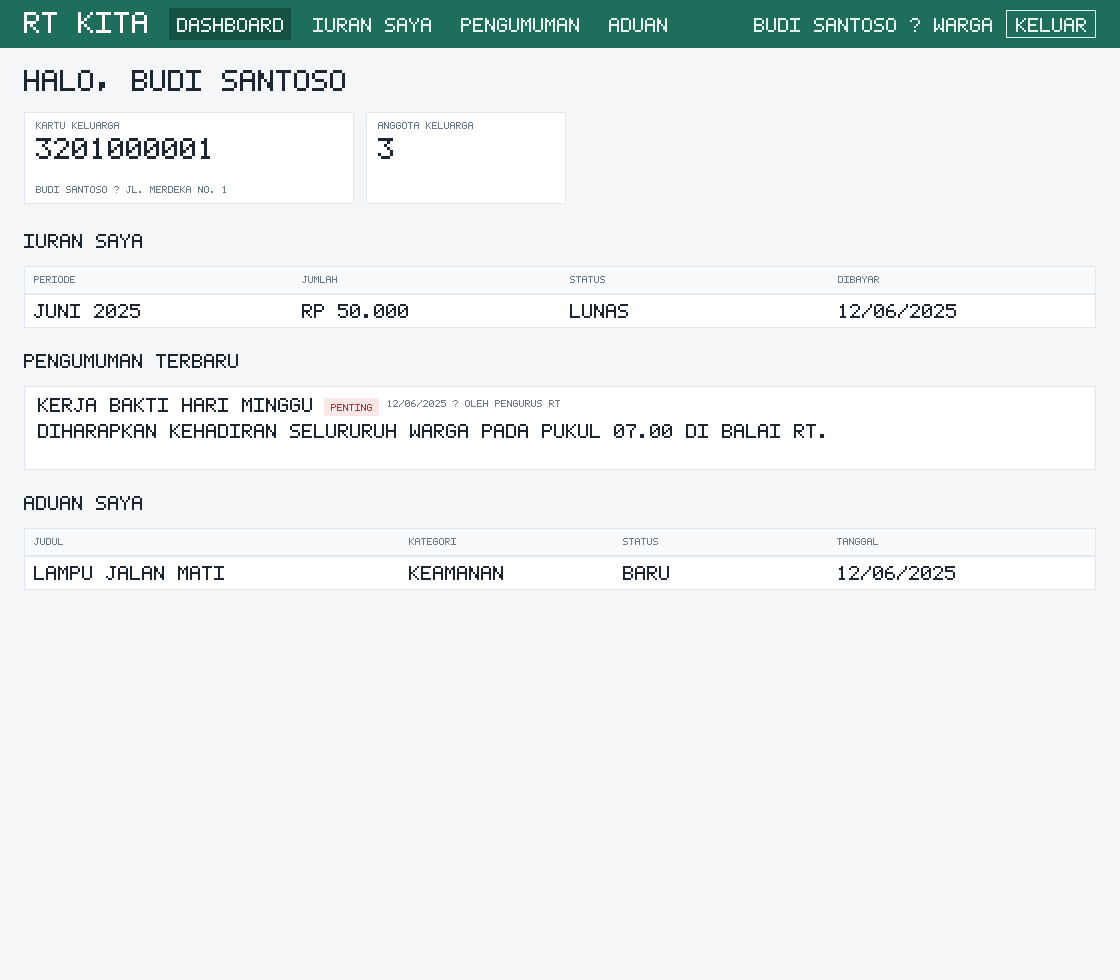
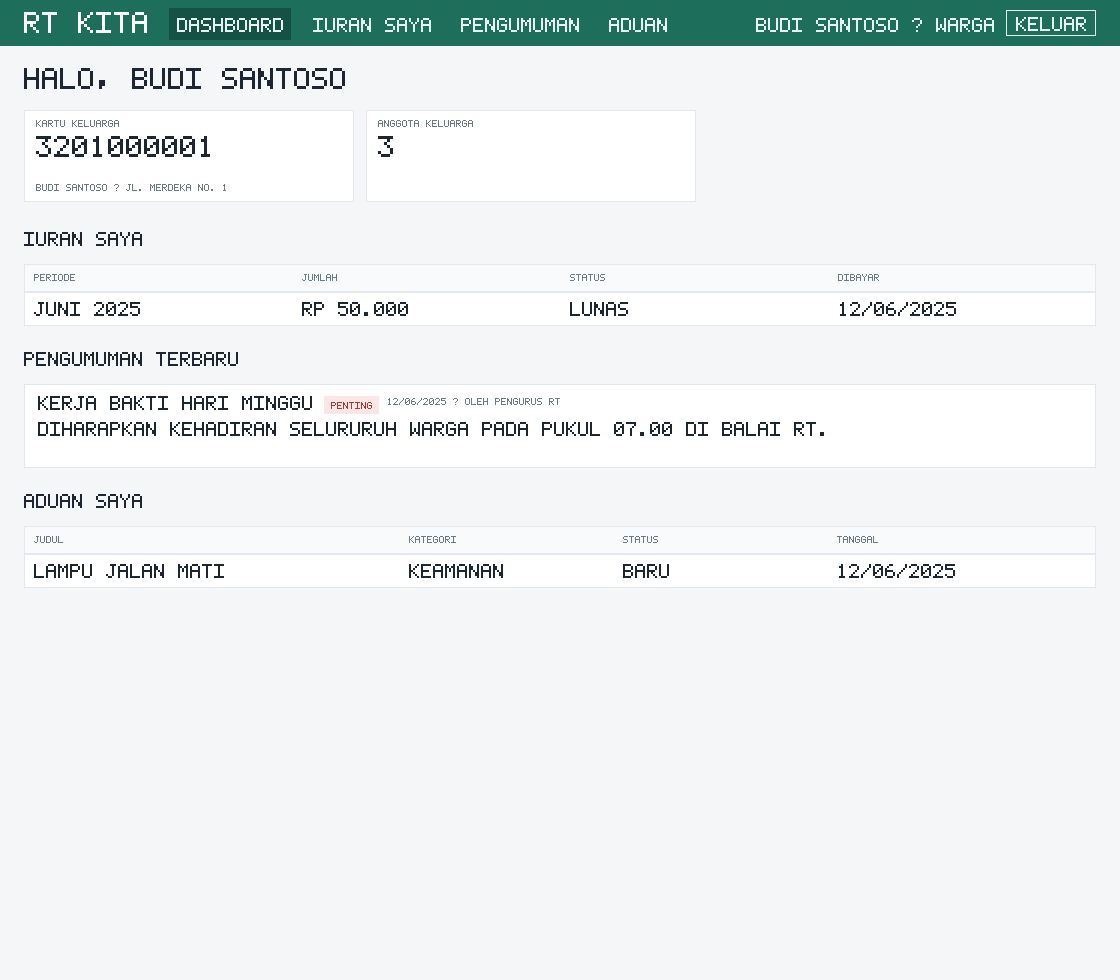
feat: tampilan responsif untuk HP + 4 mockup mobile (390px)
- CSS media query max-width 640px: nav menumpuk, kartu & form satu kolom, tombol full-width, input 16px (anti zoom iOS), tabel scroll horizontal
- meta theme-color untuk browser HP
- mockup baru: 09-mobile-login, 10-mobile-dashboard-pengurus, 11-mobile-kas-rt, 12-mobile-aduan

diff --git a/tools/render-mockups.js b/tools/render-mockups.js
@@ -175,26 +175,55 @@ class Canvas {
   }
 }
 
-const W = 1120;
-const PAD = 24;
-const CW = W - PAD * 2;
+let W = 1120;
+let PAD = 24;
+let CW = W - PAD * 2;
+
+function configure(width) {
+  W = width;
+  PAD = width < 640 ? 12 : 24;
+  CW = W - PAD * 2;
+}
 
 function nav(c, active, links, userLabel) {
-  c.rect(0, 0, W, 48, C.primary);
-  c.text(PAD, 12, 'RT KITA', 3, '#ffffff');
-  let x = PAD + c.textWidth('RT KITA', 3) + 30;
-  for (const [label, key] of links) {
-    const w = c.textWidth(label, 2) + 16;
-    if (key === active) c.rect(x - 8, 8, w, 32, C.primaryDark);
-    c.text(x, 18, label, 2, C.navText);
-    x += w + 14;
-  }
+  const narrow = W < 640;
+  const brandScale = narrow ? 2 : 3;
+  c.rect(0, 0, W, 46, C.primary);
+  c.text(PAD, narrow ? 15 : 12, 'RT KITA', brandScale, '#ffffff');
   const right = 'KELUAR';
   const bw = c.textWidth(right, 2) + 20;
-  c.strokeRect(W - PAD - bw, 10, bw, 28, C.navText);
-  c.text(W - PAD - bw + 10, 18, right, 2, C.navText);
+  c.strokeRect(W - PAD - bw, 10, bw, 26, C.navText);
+  c.text(W - PAD - bw + 10, 17, right, 2, C.navText);
   const ul = userLabel.toUpperCase();
-  c.text(W - PAD - bw - 14 - c.textWidth(ul, 2), 18, ul, 2, C.navText);
+  const us = narrow ? 1 : 2;
+  const ux = W - PAD - bw - 12 - c.textWidth(ul, us);
+  if (ux > PAD + c.textWidth('RT KITA', brandScale) + 16) c.text(ux, 18, ul, us, C.navText);
+  if (!narrow) {
+    let x = PAD + c.textWidth('RT KITA', 3) + 30;
+    for (const [label, key] of links) {
+      const w = c.textWidth(label, 2) + 16;
+      if (key === active) c.rect(x - 8, 8, w, 32, C.primaryDark);
+      c.text(x, 18, label, 2, C.navText);
+      x += w + 14;
+    }
+    return 46;
+  }
+  let x = PAD;
+  let y = 46;
+  const rowH = 34;
+  c.rect(0, 46, W, rowH, C.primaryDark);
+  for (const [label, key] of links) {
+    const w = c.textWidth(label, 2) + 16;
+    if (x + w > W - PAD) {
+      x = PAD;
+      y += rowH;
+      c.rect(0, y, W, rowH, C.primaryDark);
+    }
+    if (key === active) c.rect(x - 8, y + 3, w, 28, C.primary);
+    c.text(x, y + 11, label, 2, C.navText);
+    x += w + 10;
+  }
+  return y + rowH;
 }
 
 function h1(c, y, str) { c.text(PAD, y, str, 3, C.ink); return y + 34; }
@@ -207,6 +236,22 @@ function card(c, x, y, w, h, title, value, sub) {
   c.text(x + 12, y + 10, title, 1, C.muted);
   c.text(x + 12, y + 26, value, 3, C.ink);
   if (sub) c.text(x + 12, y + h - 18, sub, 1, C.muted);
+}
+
+function cardGrid(c, y, cards, cardW, gap) {
+  let x = PAD;
+  let rowH = 0;
+  for (const [t, v, s] of cards) {
+    if (x + cardW > PAD + CW) {
+      x = PAD;
+      y += rowH + gap;
+      rowH = 0;
+    }
+    card(c, x, y, cardW, 92, t, v, s);
+    rowH = 92;
+    x += cardW + gap;
+  }
+  return y + rowH;
 }
 
 function button(c, x, y, w, h, label, color = C.primary, textColor = '#ffffff') {
@@ -264,17 +309,26 @@ function item(c, x, y, w, h, title, meta, badges, bodyLines, thumb, tanggapan) {
   let tx = x + 14;
   tx += c.text(tx, y + 12, title, 2, C.ink) + 10;
   for (const b of badges) { tx += badge(c, tx, y + 12, b[0], b[1], b[2]) + 8; }
-  c.text(tx, y + 14, meta, 1, C.muted);
-  let ly = y + 38;
+  let ly;
+  if (W < 640) {
+    c.text(x + 14, y + 36, meta, 1, C.muted);
+    ly = y + 56;
+  } else {
+    c.text(tx, y + 14, meta, 1, C.muted);
+    ly = y + 38;
+  }
   for (const line of bodyLines) { c.text(x + 14, ly, line, 2, C.ink); ly += 20; }
   if (tanggapan) {
     c.rect(x + 14, ly + 2, Math.min(c.textWidth(tanggapan, 2) + 20, w - 28), 26, C.tanggapanBg);
     c.text(x + 24, ly + 8, tanggapan, 2, C.ink);
+    ly += 30;
   }
   if (thumb) {
-    c.rect(x + w - 14 - 120, y + 12, 120, 84, '#dfe5ea');
-    c.strokeRect(x + w - 14 - 120, y + 12, 120, 84, C.line);
-    c.textCentered(x + w - 14 - 60, y + 48, 'FOTO', 2, C.muted);
+    const txp = W < 640 ? x + 14 : x + w - 14 - 120;
+    const typ = W < 640 ? ly + 6 : y + 12;
+    c.rect(txp, typ, 120, 84, '#dfe5ea');
+    c.strokeRect(txp, typ, 120, 84, C.line);
+    c.textCentered(txp + 60, typ + 36, 'FOTO', 2, C.muted);
   }
 }
 
@@ -299,8 +353,8 @@ function screenLogin() {
 
 function screenDashboardPengurus() {
   const c = new Canvas(W, 900);
-  nav(c, 'dashboard', NAV_LINKS, 'Pengurus RT · pengurus');
-  let y = h1(c, 70, 'DASHBOARD');
+  const navH = nav(c, 'dashboard', NAV_LINKS, 'Pengurus RT · pengurus');
+  let y = h1(c, navH + 22, 'DASHBOARD');
   y = muted(c, y, 'RINGKASAN RT - JUNI 2025') + 8;
   const cards = [
     ['KARTU KELUARGA', '2', ''],
@@ -309,9 +363,7 @@ function screenDashboardPengurus() {
     ['IURAN JUNI 2025', '1/2 LUNAS', 'LIHAT IURAN'],
     ['ADUAN BELUM SELESAI', '1', 'LIHAT ADUAN'],
   ];
-  let cx = PAD;
-  for (const [t, v, s] of cards) { card(c, cx, y, 200, 92, t, v, s); cx += 212; }
-  y += 92 + 30;
+  y = cardGrid(c, y, cards, W < 640 ? 170 : 200, 12) + 30;
   y = h2(c, y, 'PENGUMUMAN TERBARU') + 6;
   item(c, PAD, y, CW, 84, 'KERJA BAKTI HARI MINGGU', '12/06/2025 · OLEH PENGURUS RT',
     [['PENTING', C.badgePentingBg, C.danger]],
@@ -325,12 +377,10 @@ function screenDashboardPengurus() {
 
 function screenDashboardWarga() {
   const c = new Canvas(W, 980);
-  nav(c, 'dashboard', NAV_LINKS_WARGA, 'Budi Santoso · warga');
-  let y = h1(c, 70, 'HALO, BUDI SANTOSO');
+  const navH = nav(c, 'dashboard', NAV_LINKS_WARGA, 'Budi Santoso · warga');
+  let y = h1(c, navH + 22, 'HALO, BUDI SANTOSO');
   y += 8;
-  card(c, PAD, y, 330, 92, 'KARTU KELUARGA', '3201000001', 'BUDI SANTOSO · JL. MERDEKA NO. 1');
-  card(c, PAD + 342, y, 200, 92, 'ANGGOTA KELUARGA', '3', '');
-  y += 92 + 30;
+  y = cardGrid(c, y, [['KARTU KELUARGA', '3201000001', 'BUDI SANTOSO · JL. MERDEKA NO. 1'], ['ANGGOTA KELUARGA', '3', '']], W < 640 ? 170 : 330, 12) + 30;
   y = h2(c, y, 'IURAN SAYA') + 6;
   const dueRows = [['JUNI 2025', 'RP 50.000', 'LUNAS', '12/06/2025']];
   table(c, PAD, y, CW, ['PERIODE', 'JUMLAH', 'STATUS', 'DIBAYAR'], dueRows, [0.25, 0.25, 0.25, 0.25]);
@@ -348,8 +398,8 @@ function screenDashboardWarga() {
 
 function screenWarga() {
   const c = new Canvas(W, 760);
-  nav(c, 'warga', NAV_LINKS, 'Pengurus RT · pengurus');
-  let y = h1(c, 70, 'DATA WARGA & KK');
+  const navH = nav(c, 'warga', NAV_LINKS, 'Pengurus RT · pengurus');
+  let y = h1(c, navH + 22, 'DATA WARGA & KK');
   y = h2(c, y + 6, 'TAMBAH KK BARU') + 4;
   const fy = y;
   field(c, PAD, fy, 220, 'NO. KK', '3201000003');
@@ -369,12 +419,9 @@ function screenWarga() {
 
 function screenKas() {
   const c = new Canvas(W, 1060);
-  nav(c, 'kas', NAV_LINKS, 'Pengurus RT · pengurus');
-  let y = h1(c, 70, 'KAS RT');
-  card(c, PAD, y, 300, 92, 'SALDO KAS', 'RP 70.000', '');
-  card(c, PAD + 312, y, 300, 92, 'PEMASUKAN JUNI 2025', 'RP 100.000', '');
-  card(c, PAD + 624, y, 300, 92, 'PENGELUARAN JUNI 2025', 'RP 30.000', '');
-  y += 92 + 12;
+  const navH = nav(c, 'kas', NAV_LINKS, 'Pengurus RT · pengurus');
+  let y = h1(c, navH + 22, 'KAS RT');
+  y = cardGrid(c, y, [['SALDO KAS', 'RP 70.000', ''], ['PEMASUKAN JUNI 2025', 'RP 100.000', ''], ['PENGELUARAN JUNI 2025', 'RP 30.000', '']], W < 640 ? 170 : 300, 12) + 12;
   c.text(PAD, y, 'LAPORAN KAS PERIODE JUNI 2025', 2, C.primary);
   y += 30;
   y = h2(c, y, 'TAMBAH TRANSAKSI') + 4;
@@ -419,8 +466,8 @@ function screenKas() {
 
 function screenPengumuman() {
   const c = new Canvas(W, 860);
-  nav(c, 'pengumuman', NAV_LINKS, 'Pengurus RT · pengurus');
-  let y = h1(c, 70, 'PENGUMUMAN');
+  const navH = nav(c, 'pengumuman', NAV_LINKS, 'Pengurus RT · pengurus');
+  let y = h1(c, navH + 22, 'PENGUMUMAN');
   y = h2(c, y + 4, 'BUAT PENGUMUMAN') + 4;
   const fx = PAD;
   let fy = field(c, fx, y, 500, 'JUDUL', '') + 12;
@@ -443,8 +490,8 @@ function screenPengumuman() {
 
 function screenAduanWarga() {
   const c = new Canvas(W, 940);
-  nav(c, 'aduan', NAV_LINKS_WARGA, 'Budi Santoso · warga');
-  let y = h1(c, 70, 'ADUAN SAYA');
+  const navH = nav(c, 'aduan', NAV_LINKS_WARGA, 'Budi Santoso · warga');
+  let y = h1(c, navH + 22, 'ADUAN SAYA');
   y = h2(c, y + 4, 'KIRIM ADUAN BARU') + 4;
   const fx = PAD;
   let fy = field(c, fx, y, 420, 'JUDUL', 'LAMPU JALAN MATI') + 12;
@@ -467,8 +514,8 @@ function screenAduanWarga() {
 
 function screenAduanPengurus() {
   const c = new Canvas(W, 720);
-  nav(c, 'aduan', NAV_LINKS, 'Pengurus RT · pengurus');
-  let y = h1(c, 70, 'ADUAN WARGA');
+  const navH = nav(c, 'aduan', NAV_LINKS, 'Pengurus RT · pengurus');
+  let y = h1(c, navH + 22, 'ADUAN WARGA');
   y += 6;
   item(c, PAD, y, CW, 150, 'LAMPU JALAN MATI', 'BUDI SANTOSO · 12/06/2025',
     [['KEAMANAN', C.badgeNetralBg, C.muted], ['BARU', C.badgeBaruBg, '#3b4fc0']],
@@ -480,8 +527,78 @@ function screenAduanPengurus() {
   return c;
 }
 
+function screenMobileDashboard() {
+  configure(390);
+  const c = new Canvas(W, 980);
+  const navH = nav(c, 'dashboard', NAV_LINKS, 'Pengurus RT');
+  let y = h1(c, navH + 20, 'DASHBOARD');
+  y = muted(c, y, 'RINGKASAN RT - JUNI 2025') + 6;
+  y = cardGrid(c, y, [
+    ['KARTU KELUARGA', '2', ''],
+    ['WARGA', '5', ''],
+    ['SALDO KAS', 'RP 70.000', ''],
+    ['IURAN JUNI', '1/2 LUNAS', ''],
+    ['ADUAN OPEN', '1', ''],
+  ], 170, 10) + 22;
+  y = h2(c, y, 'PENGUMUMAN TERBARU') + 4;
+  item(c, PAD, y, CW, 118, 'KERJA BAKTI HARI MINGGU', '12/06/2025 · OLEH PENGURUS RT',
+    [['PENTING', C.badgePentingBg, C.danger]],
+    ['DIHARAPKAN KEHADIRAN SELURURUH WARGA PADA PUKUL 07.00 DI BALAI RT.']);
+  y += 118 + 22;
+  y = h2(c, y, 'ADUAN TERBARU') + 4;
+  table(c, PAD, y, CW, ['ID', 'JUDUL', 'STATUS'], [['1', 'LAMPU JALAN MATI', '']], [0.1, 0.62, 0.28], 34,
+    (cc, row, x, ry, w, cols) => badge(cc, cols[2].x + 8, ry + 8, 'BARU', C.badgeBaruBg, '#3b4fc0'));
+  return c;
+}
+
+function screenMobileKas() {
+  configure(390);
+  const c = new Canvas(W, 1000);
+  const navH = nav(c, 'kas', NAV_LINKS, 'Pengurus RT');
+  let y = h1(c, navH + 20, 'KAS RT');
+  y = cardGrid(c, y, [['SALDO KAS', 'RP 70.000', ''], ['PEMASUKAN', 'RP 100.000', ''], ['PENGELUARAN', 'RP 30.000', '']], 170, 10) + 20;
+  y = h2(c, y, 'TAMBAH TRANSAKSI') + 4;
+  let fy = field(c, PAD, y, CW, 'JENIS', 'PEMASUKAN') + 10;
+  fy = field(c, PAD, fy, CW, 'KATEGORI', 'IURAN') + 10;
+  fy = field(c, PAD, fy, CW, 'JUMLAH (RP)', '50000') + 10;
+  fy = field(c, PAD, fy, CW, 'TANGGAL', '2025-06-12') + 10;
+  button(c, PAD, fy, CW, 36, 'SIMPAN');
+  y = fy + 36 + 26;
+  y = h2(c, y, 'IURAN - JUNI 2025') + 4;
+  table(c, PAD, y, CW, ['KK', 'JUMLAH', 'STATUS'],
+    [['3201000001', 'RP 50.000', ''], ['3201000002', 'RP 50.000', '']],
+    [0.34, 0.33, 0.33], 38,
+    (cc, row, x, ry, w, cols) => {
+      if (row[0] === '3201000001') badge(cc, cols[2].x + 8, ry + 10, 'LUNAS', C.badgeOkBg, C.ok);
+      else badge(cc, cols[2].x + 8, ry + 10, 'BELUM', C.badgeWarnBg, C.warning);
+    });
+  return c;
+}
+
+function screenMobileAduan() {
+  configure(390);
+  const c = new Canvas(W, 1000);
+  const navH = nav(c, 'aduan', NAV_LINKS_WARGA, 'Budi Santoso');
+  let y = h1(c, navH + 20, 'ADUAN SAYA');
+  y = h2(c, y + 4, 'KIRIM ADUAN BARU') + 4;
+  let fy = field(c, PAD, y, CW, 'JUDUL', 'LAMPU JALAN MATI') + 10;
+  selectBox(c, PAD, fy, CW, 'KATEGORI', 'KEAMANAN');
+  fy += 44 + 10;
+  fy = field(c, PAD, fy, CW, 'ISI ADUAN', '', { isArea: true, areaH: 64 }) + 10;
+  field(c, PAD, fy, CW, 'FOTO (OPSIONAL)', 'TIDAK ADA FILE DIPILIH');
+  fy += 44 + 10;
+  button(c, PAD, fy, CW, 36, 'KIRIM ADUAN');
+  y = fy + 36 + 26;
+  y = h2(c, y, 'RIWAYAT ADUAN SAYA') + 4;
+  item(c, PAD, y, CW, 200, 'LAMPU JALAN MATI', '12/06/2025',
+    [['KEAMANAN', C.badgeNetralBg, C.muted], ['BARU', C.badgeBaruBg, '#3b4fc0']],
+    ['MOHON SEGERA DIPERBAIKI, GELAP DI BLOK B.'], true, 'TANGGAPAN: BELUM ADA');
+  return c;
+}
+
 const OUT = path.join(__dirname, '..', 'docs', 'screenshots');
-console.log('Merender mockup UI ke ' + OUT);
+console.log('Merender mockup UI (desktop + mobile) ke ' + OUT);
+configure(1120);
 screenLogin().save(path.join(OUT, '01-login.png'));
 screenDashboardPengurus().save(path.join(OUT, '02-dashboard-pengurus.png'));
 screenDashboardWarga().save(path.join(OUT, '03-dashboard-warga.png'));
@@ -490,4 +607,9 @@ screenKas().save(path.join(OUT, '05-kas-rt.png'));
 screenPengumuman().save(path.join(OUT, '06-pengumuman.png'));
 screenAduanWarga().save(path.join(OUT, '07-aduan-warga.png'));
 screenAduanPengurus().save(path.join(OUT, '08-aduan-pengurus.png'));
+configure(390);
+screenLogin().save(path.join(OUT, '09-mobile-login.png'));
+screenMobileDashboard().save(path.join(OUT, '10-mobile-dashboard-pengurus.png'));
+screenMobileKas().save(path.join(OUT, '11-mobile-kas-rt.png'));
+screenMobileAduan().save(path.join(OUT, '12-mobile-aduan.png'));
 console.log('Selesai.');

diff --git a/public/style.css b/public/style.css
@@ -23,7 +23,7 @@ body {
 .topnav {
   display: flex;
   align-items: center;
-  gap: 14px;
+  gap: 8px 14px;
   flex-wrap: wrap;
   background: var(--primary);
   color: #fff;
@@ -44,7 +44,7 @@ h2 { font-size: 1.1rem; margin: 26px 0 10px; }
 
 .cards {
   display: grid;
-  grid-template-columns: repeat(auto-fill, minmax(170px, 1fr));
+  grid-template-columns: repeat(auto-fill, minmax(150px, 1fr));
   gap: 12px;
   margin: 14px 0;
 }
@@ -161,6 +161,25 @@ tr:last-child td { border-bottom: none; }
 .login-box code { background: #eef2f5; padding: 1px 5px; border-radius: 4px; font-size: 0.8rem; }
 
 @media (max-width: 640px) {
+  .topnav { padding: 8px 12px; font-size: 0.9rem; }
+  .topnav .brand { font-size: 0.95rem; }
+  .topnav a { padding: 4px 6px; }
+  .container { padding: 14px 12px 48px; }
+  h1 { font-size: 1.25rem; margin: 14px 0 8px; }
+  h2 { font-size: 1rem; margin: 20px 0 8px; }
+  .cards { grid-template-columns: repeat(auto-fill, minmax(140px, 1fr)); gap: 8px; }
+  .card { padding: 10px; }
+  .card-value { font-size: 1.15rem; }
+  .form { padding: 12px; }
   .form.inline { flex-direction: column; align-items: stretch; }
+  .form.inline .field { flex: 1 1 auto; }
   .field { min-width: 0; }
+  input, select, textarea { font-size: 16px; }
+  .btn { width: 100%; padding: 11px 16px; }
+  .btn.small { width: auto; padding: 4px 10px; }
+  .table-wrap { font-size: 0.85rem; }
+  th, td { padding: 7px 8px; }
+  .login-box { margin: 32px 12px; padding: 18px; }
+  .item { padding: 10px 12px; }
+  .thumb { max-width: 120px; max-height: 90px; }
 }

diff --git a/src/views.js b/src/views.js
@@ -22,6 +22,7 @@ function layout({ title, user, content, active = '' }) {
 <head>
 <meta charset="utf-8">
 <meta name="viewport" content="width=device-width, initial-scale=1">
+<meta name="theme-color" content="#1d6f5c">
 <title>${escapeHtml(title)} · RT Kita</title>
 <link rel="stylesheet" href="/public/style.css">
 </head>

diff --git a/README.md b/README.md
@@ -34,6 +34,12 @@ Mockup setiap halaman ada di [`docs/screenshots/`](docs/screenshots) dan bisa di
 | Pengumuman | [06-pengumuman.png](docs/screenshots/06-pengumuman.png) |
 | Aduan (warga) | [07-aduan-warga.png](docs/screenshots/07-aduan-warga.png) |
 | Aduan (pengurus) | [08-aduan-pengurus.png](docs/screenshots/08-aduan-pengurus.png) |
+| Login (HP 390px) | [09-mobile-login.png](docs/screenshots/09-mobile-login.png) |
+| Dashboard pengurus (HP) | [10-mobile-dashboard-pengurus.png](docs/screenshots/10-mobile-dashboard-pengurus.png) |
+| Kas RT (HP) | [11-mobile-kas-rt.png](docs/screenshots/11-mobile-kas-rt.png) |
+| Aduan (HP) | [12-mobile-aduan.png](docs/screenshots/12-mobile-aduan.png) |
+
+Tampilan **responsif** — saat dibuka di HP, navigasi menumpuk, kartu & form menjadi satu kolom, tombol menjadi full-width, dan tabel bisa digeser horizontal (`public/style.css`, media query `max-width: 640px`).
 
 ## Akun default (dari data contoh)
 
